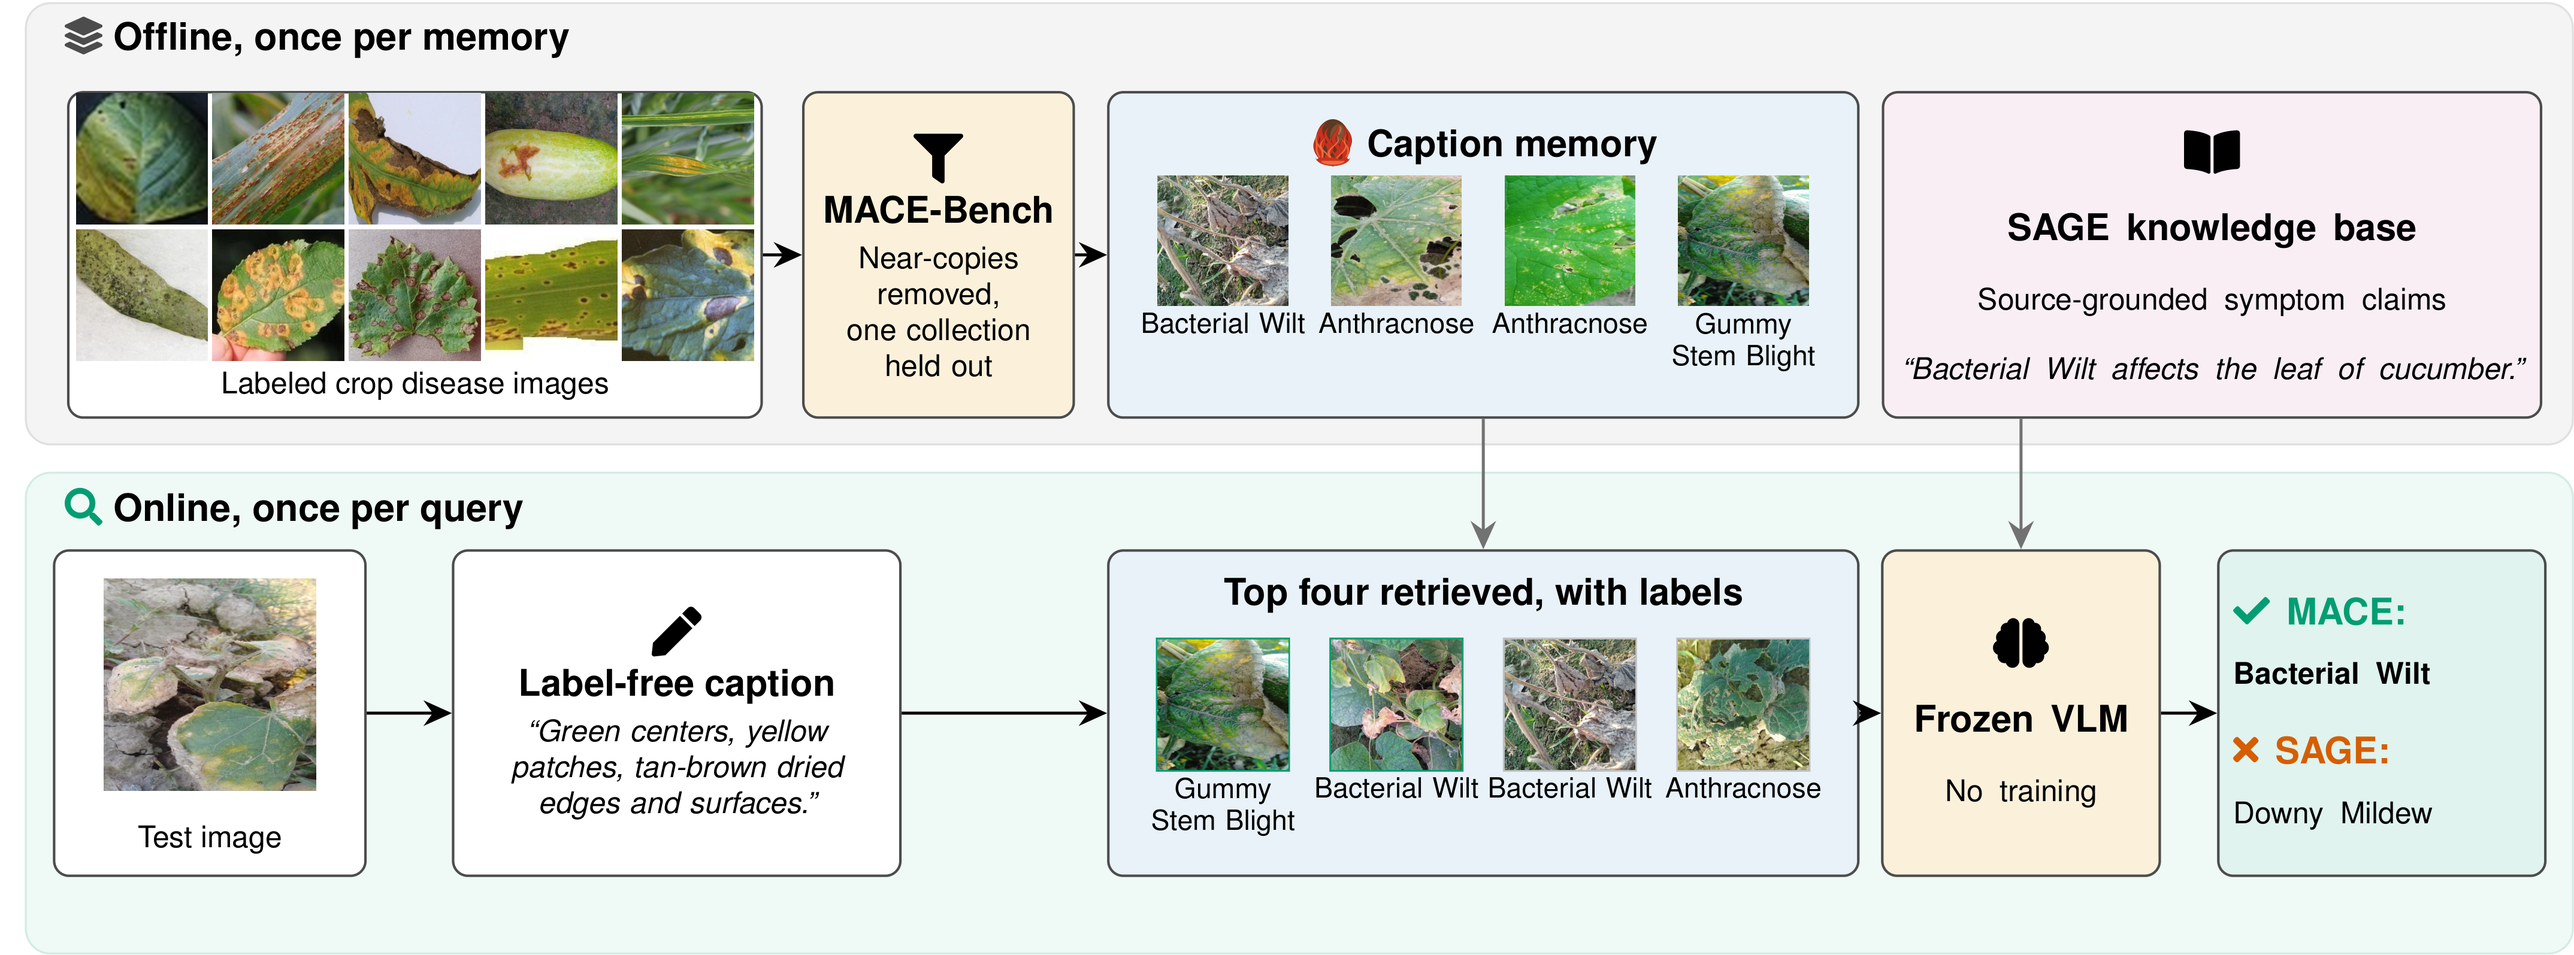
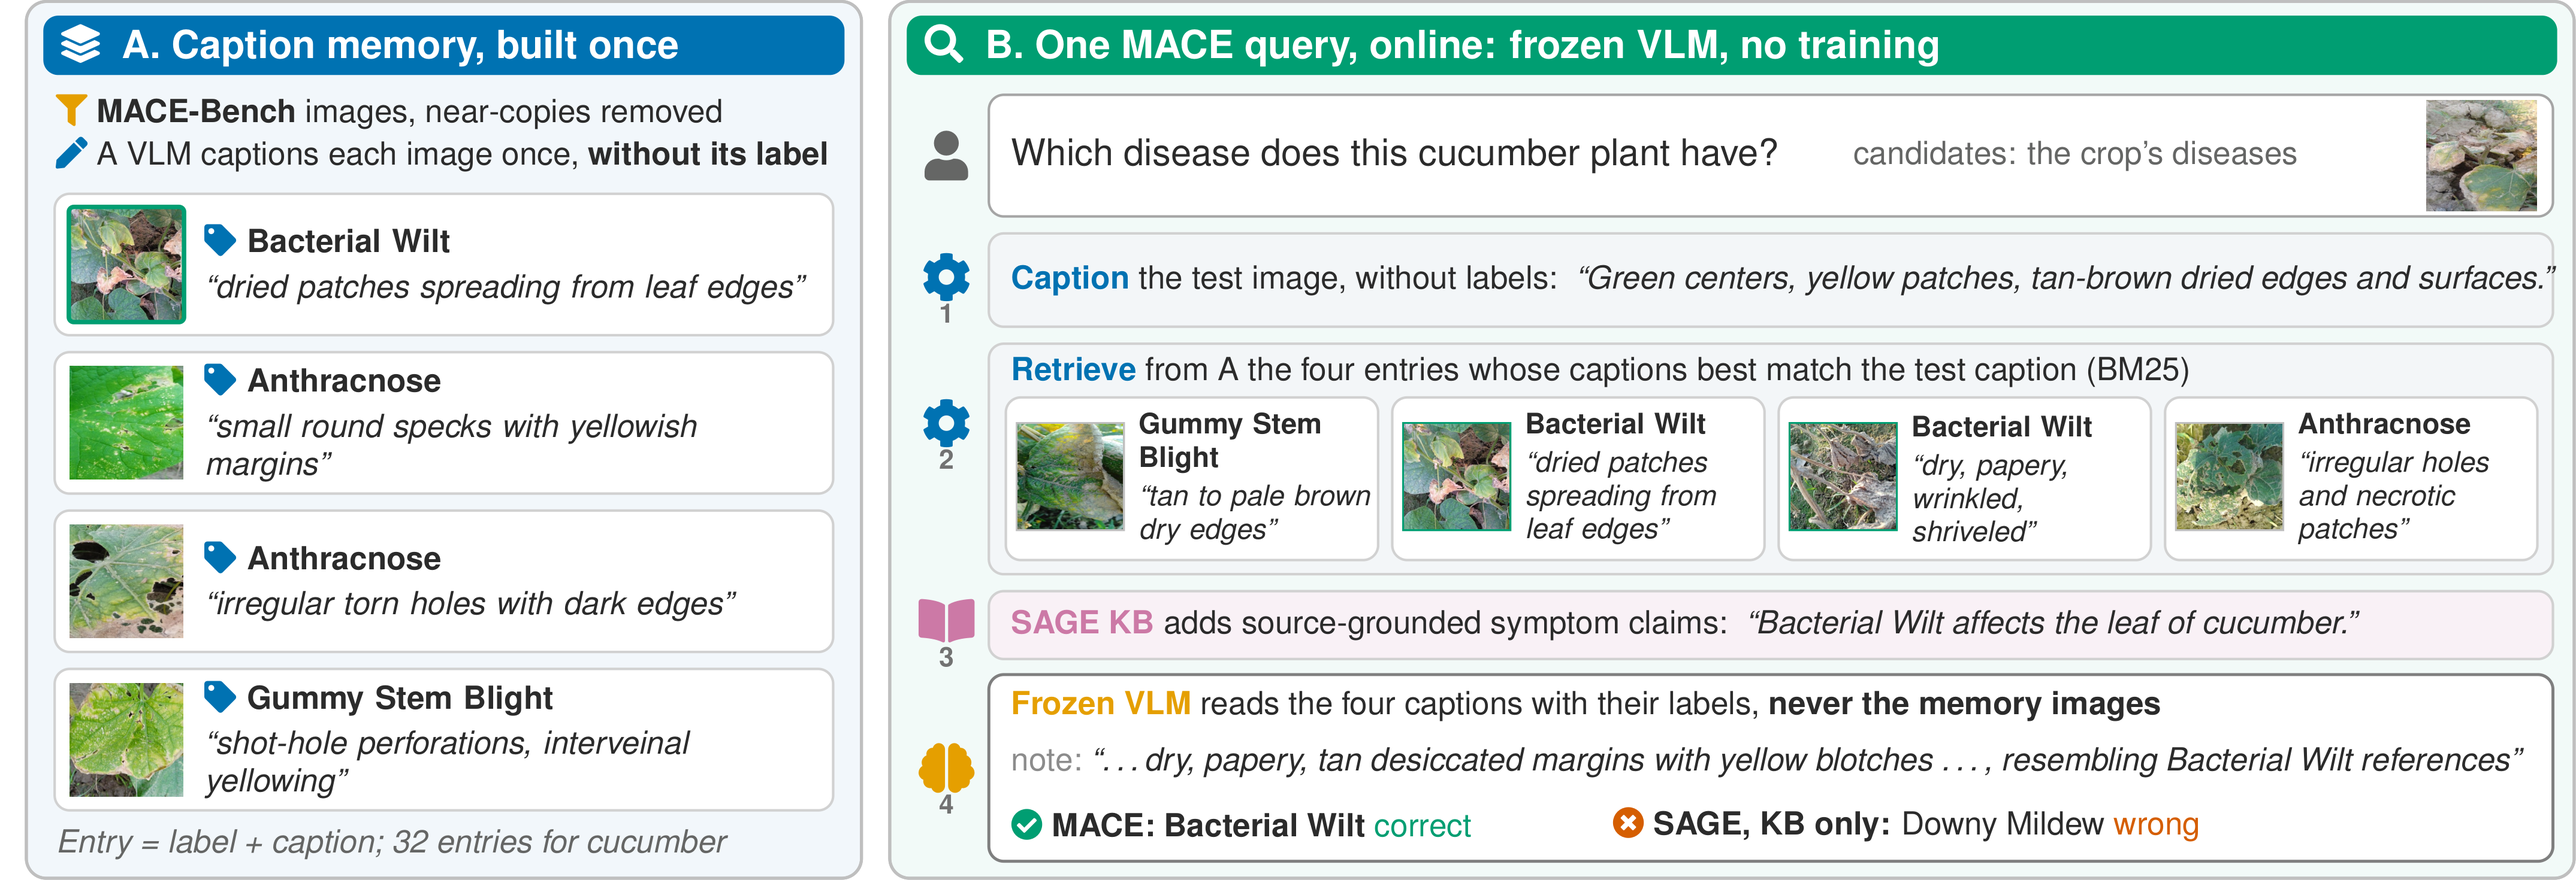
Figure 1 in the new panel layout, abstract from the current paper, AgEval and SAGE described as prior work

diff --git a/index.html b/index.html
@@ -93,7 +93,7 @@
 <section class="section" id="abstract">
   <div class="container is-max-desktop">
     <div class="has-text-centered"><span class="sec-kicker">Overview</span><h2 class="title is-3">Abstract</h2></div>
-    <div class="content has-text-justified"><p>Crop disease diagnosis is critical for food security, yet labeled disease images are limited and models trained on curated images generalize poorly to field images. We showed in AgEval that general-purpose vision-language models (VLMs) adapt to plant stress tasks from a few annotated examples, and we gave frozen VLMs source-grounded symptom knowledge for 335 crops in SAGE. Building on both studies, we introduce <b>MACE</b> (Memory-Augmented Crop-Disease Evaluation), a training-free method that adds a caption memory to SAGE. Each labeled reference image is described once as text, and the four most relevant labeled captions are retrieved for each test image. We evaluate MACE against label lookup on ten crops and 1,600 queries with two frozen diagnosis VLMs that share Sonnet-written captions, Claude Sonnet 5.5 and Claude Haiku 5.5, with near-copies removed and one image collection held out per crop. With four memory images per disease, MACE reaches <b>62.2%</b> accuracy in distribution and <b>57.0%</b> on held-out collections with Sonnet, and <b>55.5%</b> and <b>53.5%</b> with Haiku. SAGE reaches 42.8% and 50.7% with Sonnet (MACE gain <b>+19.4</b> and <b>+6.3 points</b>) and 37.0% and 42.5% with Haiku (<b>+18.5</b> and <b>+11.0</b>). Nearest-neighbor label lookup with DINOv2 reaches 52.5% and 38.2%, so Haiku with MACE does not clearly exceed it in distribution. With both models, retrieved labels account for about two thirds of the gain and caption text adds 6.4 points in distribution in post hoc tests. The strongest gain is in distribution, and the held-out gain depends on the source: it is 0.0 with Sonnet and +6.4 with Haiku on the seven crops that hold out Bugwood, and +21.1 and +21.7 on the three crops that hold out other collections. The held-out evidence is therefore source-specific. With both models, MACE falls below SAGE when the true disease is not retrieved, and a retrieval-confidence fallback did not improve accuracy. With Sonnet, MACE adds $0.0014 per query over SAGE and, at about one fifth of the price, reaches higher accuracy than an agent reading the same captions.</p></div>
+    <div class="content has-text-justified"><p>Crop disease diagnosis remains limited by the scarcity of labeled field images and by the poor transfer of models trained on curated datasets. SAGE gives a frozen vision-language model (VLM) a knowledge base (KB) of symptom claims linked to their sources, but this KB describes each disease only in general terms, while showing the model labeled reference images can reward near-copy matching rather than diagnosis. In this paper, we introduce <b>MACE</b> (Memory-Augmented Crop-Disease Evaluation), a training-free method that complements this KB with a memory of labeled text descriptions of reference images. MACE describes the query image in text, retrieves the most similar memory entries, and passes their descriptions and labels to a frozen diagnosis VLM, so the model never sees the reference images. We evaluate MACE on ten crops after removing near-copies and holding out one source collection per crop, with two diagnosis VLMs and nearest-neighbor label lookup on the same memory. With Claude Sonnet 5.5, MACE raises accuracy over SAGE from 42.8% to 62.2% in distribution and from 50.7% to 57.0% on held-out collections, and Claude Haiku 5.5 shows similar trends. Retrieved labels account for most of this improvement, while the descriptions add about six points in distribution. The held-out gain is negligible or modest for crops that hold out Bugwood and much larger for the other crops, and MACE falls 7 to 16 points below SAGE when retrieval omits the true disease. Fitted scorers, scorers whose weights a large language model writes, and added image similarity leave diagnosis statistically unchanged, whereas diversifying the retrieved diseases lowers accuracy. These findings indicate that caption memory can improve frozen VLM diagnosis, although its benefit depends on which references reach the model and on source shift.</p></div>
   </div>
 </section>
 
@@ -101,11 +101,11 @@
   <div class="container">
     <div class="has-text-centered" style="margin-bottom:1.6rem"><span class="sec-kicker">Method</span><h2 class="title is-3">Building on AgEval and SAGE</h2></div>
     <div class="steps" style="margin-bottom:1.2rem">
-      <div class="step"><h3>What we build on</h3><p>In AgEval, we showed that general-purpose VLMs adapt to plant stress tasks from a few annotated examples. In SAGE, we gave frozen VLMs source-grounded symptom knowledge for 335 crops.</p></div>
+      <div class="step"><h3>What we build on</h3><p>AgEval showed that general-purpose VLMs adapt to plant stress tasks from a few annotated examples. SAGE gives a frozen VLM a knowledge base of source-grounded symptom claims.</p></div>
       <div class="step"><h3>What MACE adds</h3><p>MACE describes each labeled reference image once as a label-free caption. For each test image, the four most similar captions are retrieved with their labels and added to the SAGE knowledge. The VLM is not trained.</p></div>
     </div>
-    <div class="fig-card"><a href="static/images/figures/overview.png" target="_blank"><img src="static/images/figures/overview.png" alt="MACE overview on a recorded tomato query" loading="lazy"></a>
-      <p class="description has-text-centered"><b class="fl">MACE on a recorded query</b>, from offline caption memory to online retrieval and diagnosis.</p></div>
+    <div class="fig-card"><a href="static/images/figures/overview.png" target="_blank"><img src="static/images/figures/overview.png" alt="MACE on a recorded cucumber query: (A) caption memory entries with labels and caption excerpts, (B) caption, retrieval, SAGE knowledge and frozen VLM answer" loading="lazy"></a>
+      <p class="description has-text-centered"><b class="fl">MACE on a recorded query.</b> (A) Each memory entry stores a reference image's label and its label-free caption. (B) MACE captions the test image, retrieves four entries, adds SAGE KB claims, and a frozen VLM answers.</p></div>
   </div>
 </section>
 
